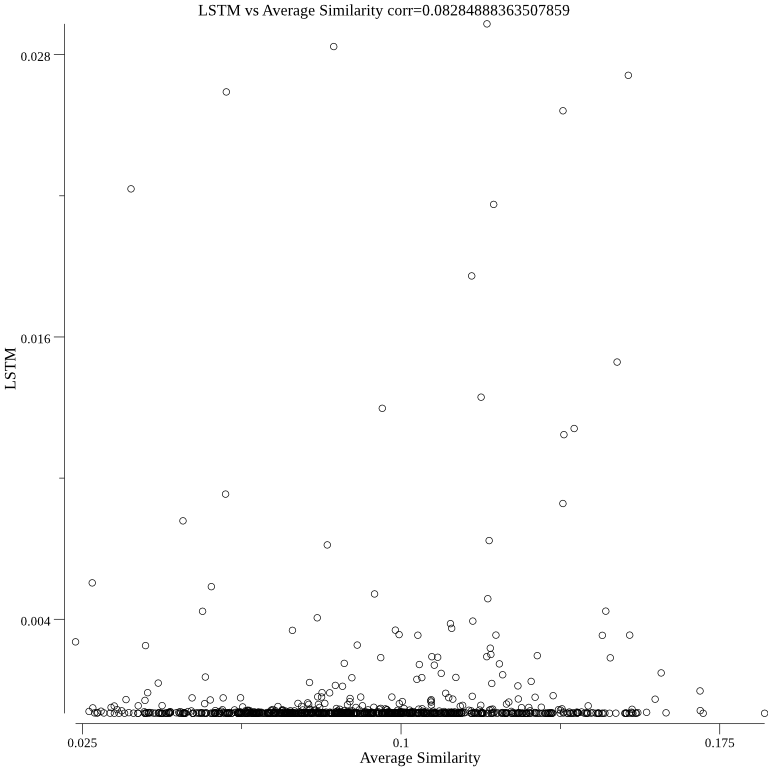
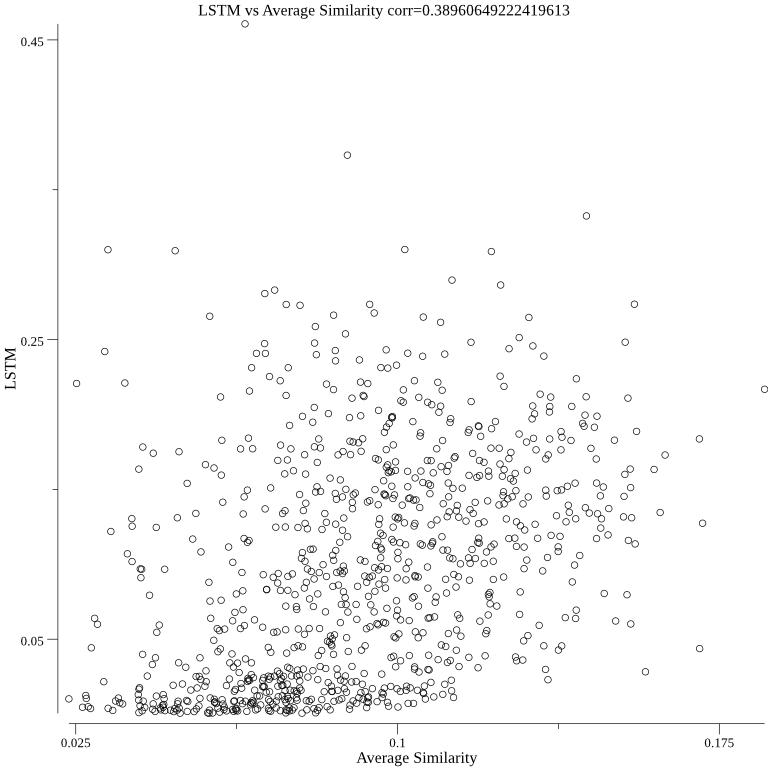
Updated README

diff --git a/README.md b/README.md
@@ -10,7 +10,7 @@
 * gru - GRU implementation
 
 ## Abstract
-Standard statistical methods can be used for anomaly detection of one dimensional real valued data. The multidimensional nature of JSON documents makes anomaly detection more difficult. Firstly, this README proposes a two stage algorithm for the anomaly detection of JSON documents. The first stage of the algorithm uses [random matrix dimensionality reduction](https://en.wikipedia.org/wiki/Random_projection) to vectorize a JSON document into a fixed length vector (JSON document vector). The second stage of the algorithm uses one of three methods: average [cosine similarity](https://en.wikipedia.org/wiki/Cosine_similarity), a single neuron, or an [autoencoder](https://en.wikipedia.org/wiki/Autoencoder) to determine how surprising the JSON document vector is. Secondly, this README proposes using a [LSTM](https://en.wikipedia.org/wiki/Long_short-term_memory) or a [GRU](https://en.wikipedia.org/wiki/Gated_recurrent_unit) [recurrent neural network](https://en.wikipedia.org/wiki/Recurrent_neural_network) for anomaly detection. Thirdly, a probabilistic model based on [models for adaptive arithmetic coding](https://fgiesen.wordpress.com/2015/05/26/models-for-adaptive-arithmetic-coding/) and [Kolmogorov complexity](https://en.wikipedia.org/wiki/Kolmogorov_complexity) is proposed. Simple statistical analysis can then be used for determining which JSON documents the user should be alerted to.
+Standard statistical methods can be used for anomaly detection of one dimensional real valued data. The multidimensional nature of JSON documents makes anomaly detection more difficult. Firstly, this README proposes a two stage algorithm for the anomaly detection of JSON documents. The first stage of the algorithm uses [random matrix dimensionality reduction](https://en.wikipedia.org/wiki/Random_projection) to vectorize a JSON document into a fixed length vector (JSON document vector). The second stage of the algorithm uses one of three methods: average [cosine similarity](https://en.wikipedia.org/wiki/Cosine_similarity), a single neuron, or an [autoencoder](https://en.wikipedia.org/wiki/Autoencoder) to determine how surprising the JSON document vector is. Secondly, this README proposes using a [LSTM](https://en.wikipedia.org/wiki/Long_short-term_memory) or a [GRU](https://en.wikipedia.org/wiki/Gated_recurrent_unit) [recurrent neural network](https://en.wikipedia.org/wiki/Recurrent_neural_network) for anomaly detection. Thirdly, a probabilistic model based on [models for adaptive arithmetic coding](https://fgiesen.wordpress.com/2015/05/26/models-for-adaptive-arithmetic-coding/) and [Kolmogorov complexity](https://en.wikipedia.org/wiki/Kolmogorov_complexity) is proposed. Fourthly, a probabilistic model with [resampling](https://en.wikipedia.org/wiki/Resampling_(statistics)) is proposed. Simple statistical analysis can then be used for determining which JSON documents the user should be alerted to.
 
 ## Background
 * [Random projection](https://en.wikipedia.org/wiki/Random_projection)
@@ -82,10 +82,16 @@ A GRU is similar to a LSTM, but it requires fewer tensor operations. The cost of
 
 The code for the GRU algorithm can be found [here](https://github.com/pointlander/anomaly/blob/master/gru/gru.go).
 
-## Complexity
+## Probabilistic models
+### Complexity
 The complexity algorithm works by computing the compressed bits per symbol of a JSON document given the previous JSON documents. The JSON document isn't compressed, instead the compressed bits per symbol is computed with log2 of the symbol probabilities generated by the model for adaptive arithmetic coding.
 
 The code for the complexity algorithm can be found [here](https://github.com/pointlander/anomaly/blob/master/complexity.go).
+
+### Complexity with resampling
+The complexity with resampling algorithm is implemented with multiple copies of the above complexity model. Each copy sees a subset of the training data set. This allows the uncertainty in surprise to be computed.
+
+The code for the complexity with resampling algorithm can be found [here](https://github.com/pointlander/anomaly/blob/master/meta.go).
 
 ## Benchmarks
 The benchmarks are executed with:
@@ -171,26 +177,26 @@ The below three graphs show average cosine similarity, single neuron, and autoen
 
 ### Recurrent neural networks
 #### LSTM algorithm
-The distribution of the LSTM surprise metrics for random JSON documents is very narrow:
+The distribution of the LSTM surprise metrics for random JSON documents is wide:
 
 ![Graph 9 LSTM distribution](graph_9_lstm_distribution.png?raw=true)
 
-The LSTM learning the random JSON documents can be seen in the below graph:
+The LSTM over time can be seen in the below graph:
 
 ![Graph 10 LSTM vs time](graph_10_lstm.png?raw=true)
 
-The LSTM algorithm doesn't correlate with the average similarity approach, so it is not clear what is being computed. This is to be expected as LSTMs are Turing complete:
+The LSTM algorithm correlates with the average similarity approach:
 
 ![Graph 11 LSTM vs average similarity](graph_11_lstm_vs_average_similarity.png?raw=true)
 
 The LSTM correctly determines the surprise metrics of the above two test JSON documents. The surprise metric of the first test JSON document is greater than the surprise metric of the second test JSON document.
 
 #### GRU algorithm
-The distribution of the GRU surprise metrics is similar to the LSTM distribution:
+The distribution of the GRU surprise metrics is different from the LSTM distribution:
 
 ![Graph 12 GRU distribution](graph_12_gru_distribution.png?raw=true)
 
-The GRU learning the random JSON documents can be seen in the below graph:
+The GRU over time can be seen in the below graph:
 
 ![Graph 10 GRU vs time](graph_13_gru.png?raw=true)
 
@@ -210,6 +216,11 @@ It can be seen that the complexity model learns over time:
 ![Graph 16 GRU vs time](graph_16_complexity.png?raw=true)
 
 The complexity algorithm correctly determines the surprise metrics of the above two test JSON documents. The surprise metric of the first test JSON document is greater than the surprise metric of the second test JSON document.
+
+### Complexity with resampling
+The below graph shows the complexity over time with error bars representing uncertainty:
+
+![Graph 17 Complexity with uncertainty vs time](graph_17_meta.png?raw=true)
 
 ## Conclusion
 An anomaly detection engine has been demonstrated. The first two stage algorithm is made up of two components: a vectorizer and an algorithm for computing surprise. After vectorization the single neuron and autoencoder algorithms have a fixed cost for determining if a JSON document is an anomaly. The single neuron and autoencoder methods are suitable for taking a real time learning approach. The single neuron method is faster than the other two methods. The LSTM based algorithm works, but it is slower than the other approaches. A GRU based algorithm can be used instead of a LSTM based algorithm for faster performance. The complexity algorithm is the fastest solution and supports any type of data.
